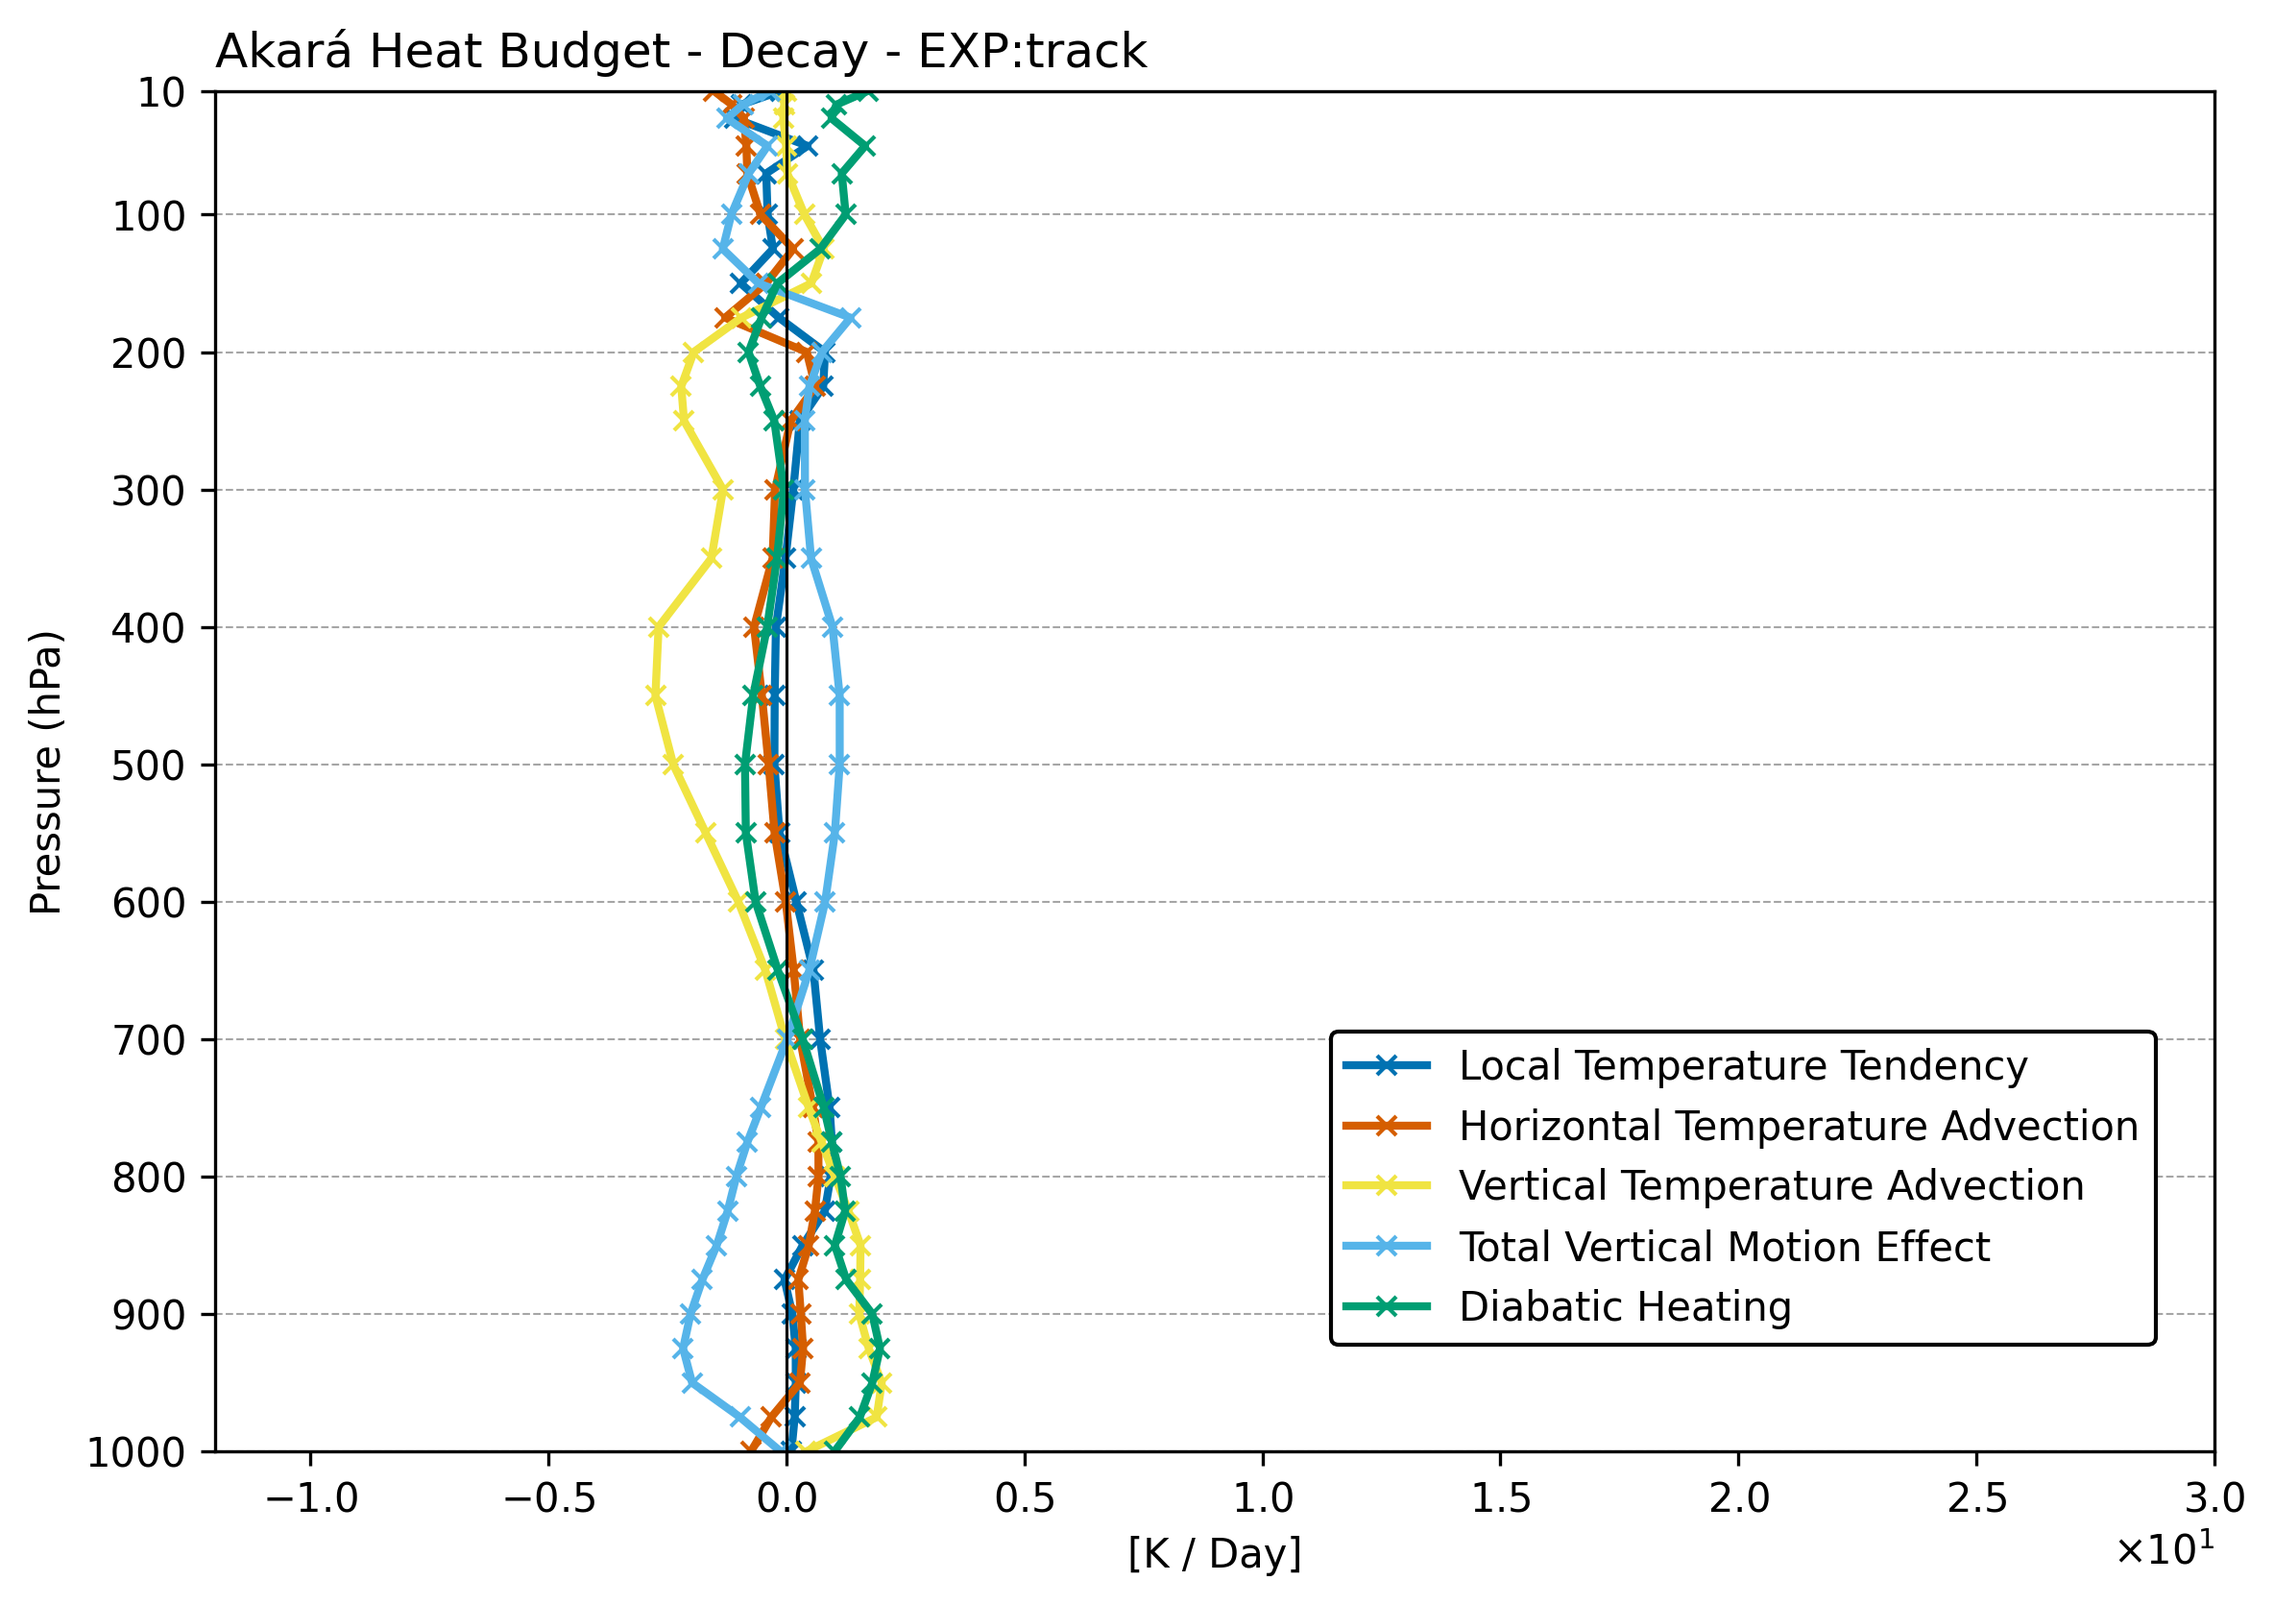
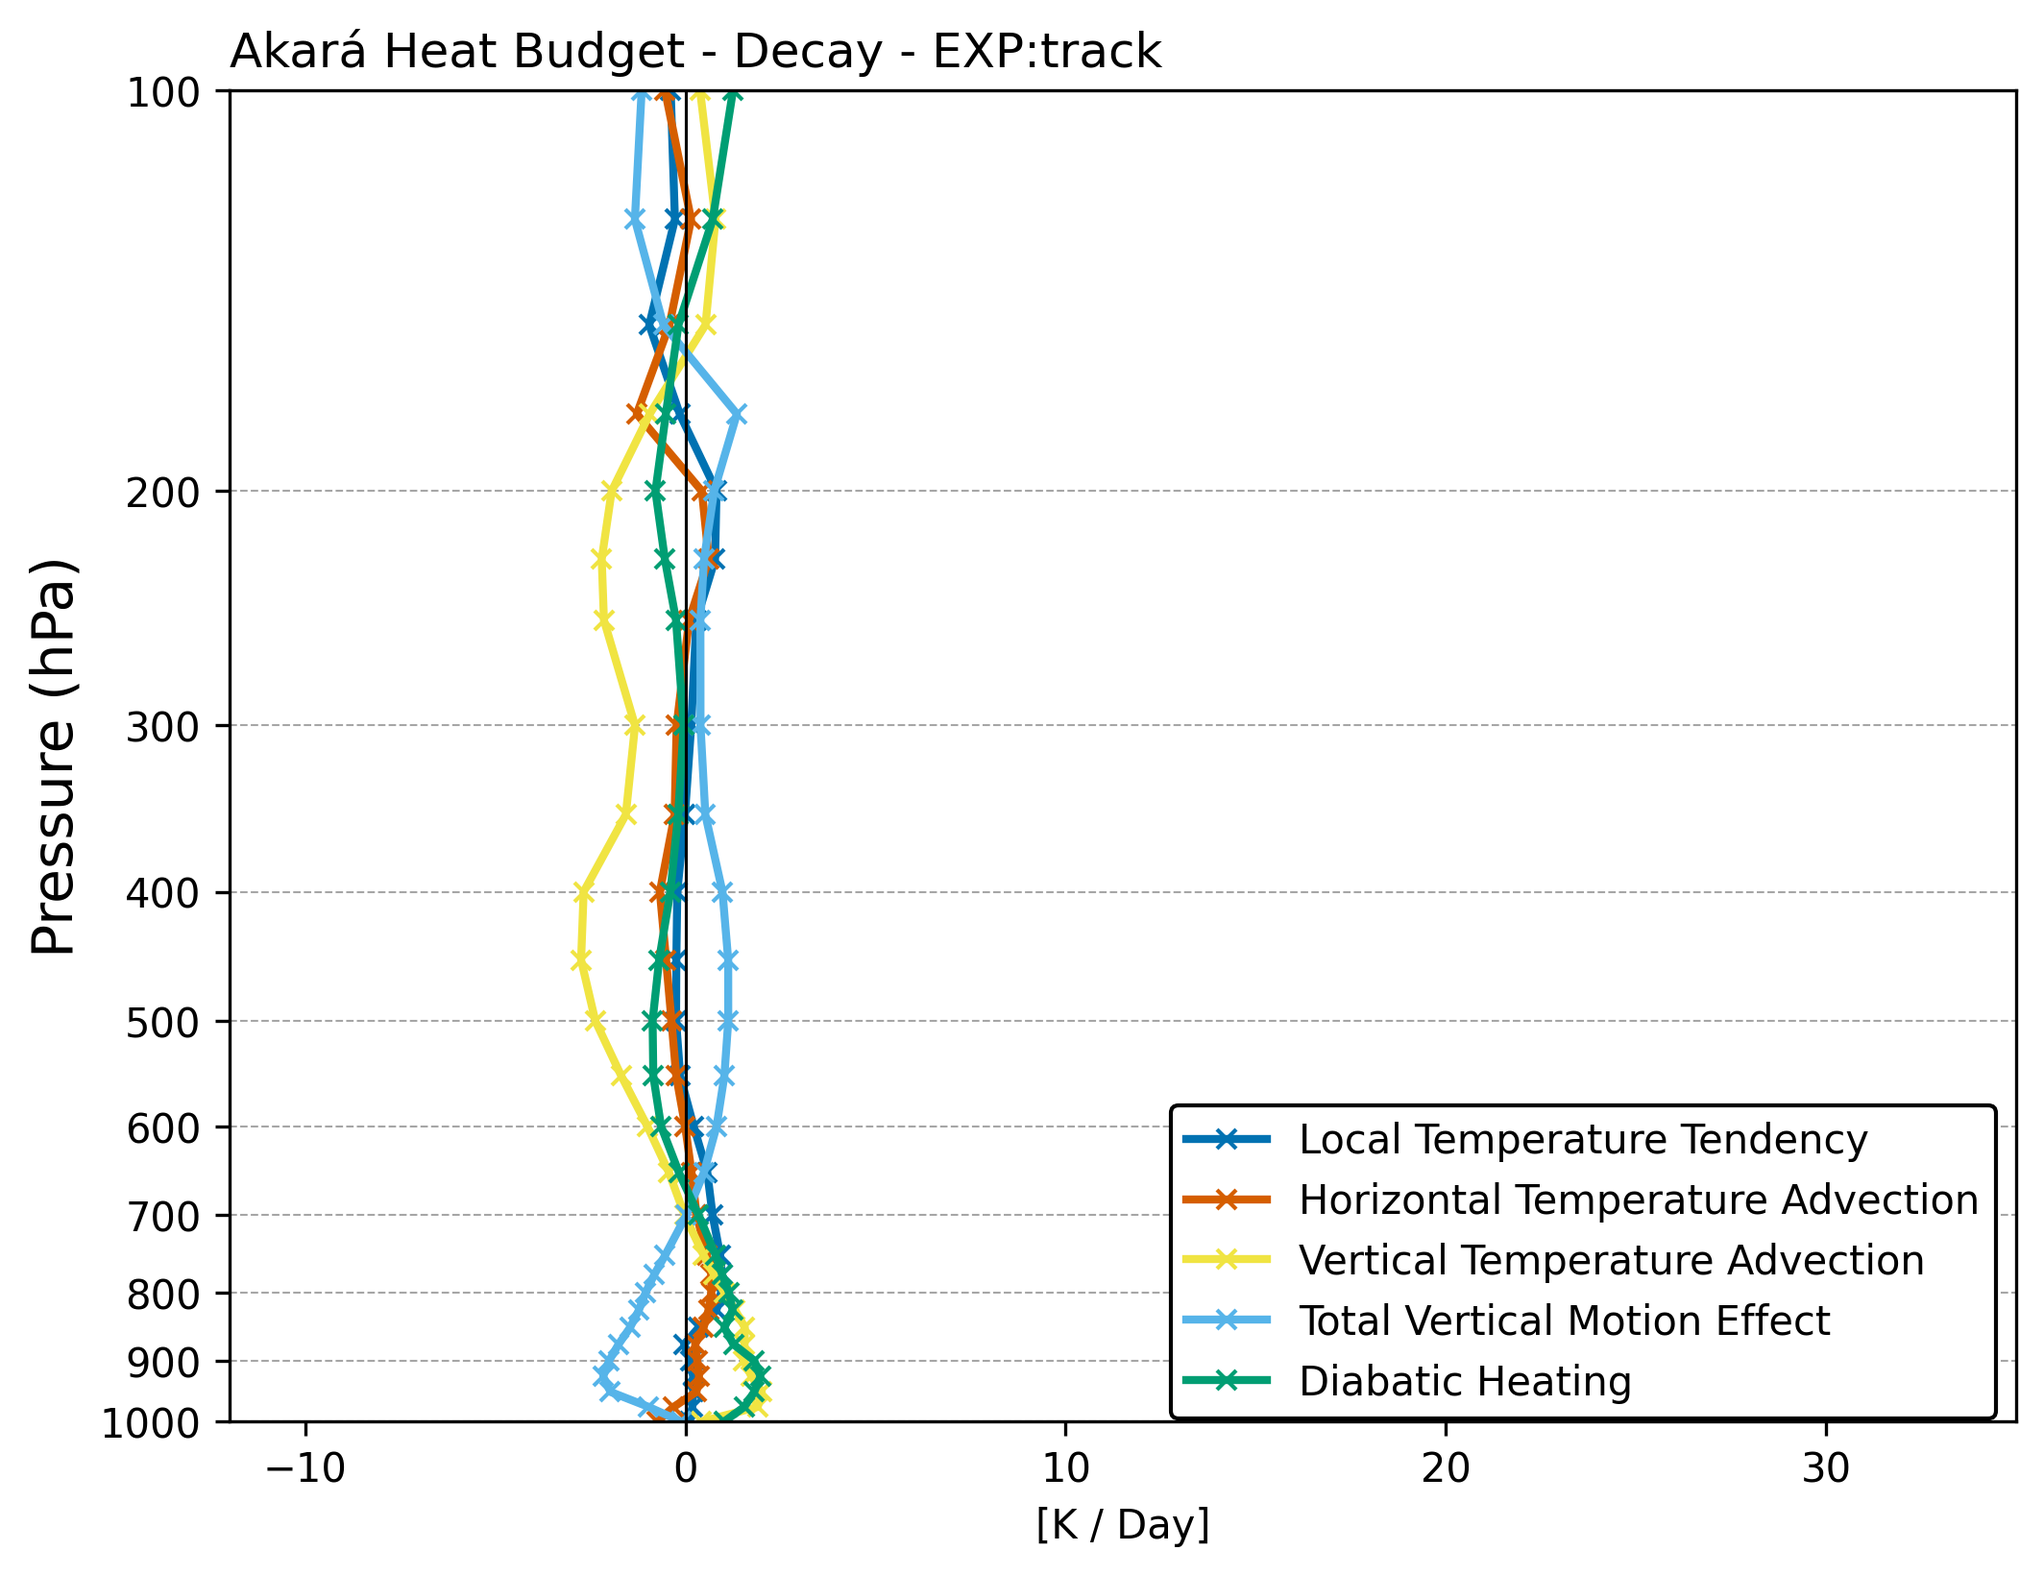
atualização akará balanços T

Changed region(s): [[0.0, 0.0, 0.9925, 0.9951], [0.9305, 0.964, 0.9615, 0.9951]]

diff --git a/Akara/AtmosBud/akara1_track/Scripts/T_balanc.py b/Akara/AtmosBud/akara1_track/Scripts/T_balanc.py
@@ -3,8 +3,8 @@ import matplotlib.ticker as ticker
 import pandas as pd
 import numpy as np
 
-DIRDADO = '/home/victor/USP/sinotica3/ATMOS-BUD_Results/akara1_track/'
-DIRFIGS = '/home/victor/USP/sinotica3/ATMOS-BUD_Results/akara1_track/Figures/T_balanc_track/'
+DIRDADO = '/home/victor/USP/sinotica3/ATMOS-BUD_Results/Akara/AtmosBud/akara1_track/'
+DIRFIGS = '/home/victor/USP/sinotica3/ATMOS-BUD_Results/Akara/AtmosBud/akara1_track/Figures/T_balanc_track/'
 
 # Lista de arquivos de dados
 dTdt = DIRDADO + 'dTdt.csv'
@@ -42,8 +42,7 @@ for idx, (date_interval, nome) in enumerate(zip(date_intervals, nomes)):
     for file_path in lista_arquivos:
         # Abrir dados em um DataFrame
         df = pd.read_csv(file_path, index_col=[0])
-        df.to_numpy()
-        df.index = df.index / 100
+        df.index = df.index / 100  # Ajuste da escala de pressão (hPa)
         df.columns = pd.to_datetime(df.columns)
         df.columns = df.columns.strftime('%Y-%m-%dT%H')
 
@@ -60,34 +59,26 @@ for idx, (date_interval, nome) in enumerate(zip(date_intervals, nomes)):
                 label=labels[i], color=colors[i], linewidth=2, linestyle='solid', marker='x', markerfacecolor='white', markersize=5)
 
     ax.axvline(0, c='black', linewidth=0.75)  # Adicionar linha vertical em x=0
-    ax.invert_yaxis()
-    ax.set_ylim(1000, 10)  # Definir limites do eixo y
-    ax.grid(axis='y', linestyle='--', color='gray', alpha=0.7, linewidth=0.5)  # Adicionar linhas de grade horizontais
-    ax.set_xlim(-12, 30)  # Definir limites do eixo x
-    ax.set_title(f'Akará Heat Budget - {nome} - EXP:track', fontsize=12, loc='left')  # Definir título
-    ax.set_xlabel('[K / Day]', fontsize=10)  # Definir rótulo do eixo x
-    ax.set_ylabel('Pressure (hPa)', fontsize=10)  # Definir rótulo do eixo y
-    ax.set_facecolor('white')  # Cor de fundo do eixo
+    ax.invert_yaxis()  # Inverter o eixo y
 
-    # Definir notação científica para o eixo x
-    ax.xaxis.set_major_formatter(ticker.ScalarFormatter(useMathText=True))
-    ax.ticklabel_format(style='sci', axis='x', scilimits=(0, 0))
+    # Definir eixo y logarítmico e os ticks
+    ax.set_yscale('log')
+    ax.set_yticks([1000, 900, 800, 700, 600, 500, 400, 300, 200, 100])
+    ax.get_yaxis().set_major_formatter(ticker.ScalarFormatter())  # Remover notação científica no log
+    ax.set_ylim(1000, 100)
 
-    # Definir ticks personalizados para o eixo y
-    custom_y_ticks = [1000, 900, 800, 700, 600, 500, 400, 300, 200, 100, 10]
-    ax.set_yticks(custom_y_ticks)
+    # Configurações do grid e título
+    ax.grid(axis='y', linestyle='--', color='gray', alpha=0.7, linewidth=0.5)
+    ax.set_xlim(-12, 35)  # Definir limites do eixo x
+    ax.set_title(f'Akará Heat Budget - {nome} - EXP:track', fontsize=12, loc='left')
+    ax.set_xlabel('[K / Day]', fontsize=10)
+    ax.set_ylabel('Pressure (hPa)', fontsize=14)
 
-    # Remover bordas dos subplots
-    ax.spines['top'].set_visible(True)
-    ax.spines['right'].set_visible(True)
+    # Legenda
+    fig.legend(labels, loc='lower right', bbox_to_anchor=(0.9, 0.1), fontsize=10, frameon=True, framealpha=1, edgecolor='black')
 
-    fig.legend(labels, loc='lower right', bbox_to_anchor=(0.95, 0.2), fontsize=10, frameon=True, framealpha=1, edgecolor='black')
-    fig.patch.set_facecolor('white')
-    plt.tight_layout()
-    plt.subplots_adjust(bottom=0.15)
-
-    # Salvar a figura com o nome correspondente à fase
+    # Salvar a figura
     plt.savefig(DIRFIGS + f'Heat_Budget_{nome}.png', bbox_inches='tight', dpi=300)
-    
-    # Fechar a figura
     plt.close()
+
+print("Gráficos gerados com sucesso!")

diff --git a/Akara/AtmosBud/akara1_track/Scripts/T_perfil.py b/Akara/AtmosBud/akara1_track/Scripts/T_perfil.py
@@ -4,9 +4,8 @@ import pandas as pd
 import numpy as np
 import os
 
-DIRDADO = '/home/victor/USP/sinotica3/ATMOS-BUD_Results/akara1_track/'
-DIRFIGS = '/home/victor/USP/sinotica3/ATMOS-BUD_Results/akara1_track/Figures/T_balanc_track/'
-
+DIRDADO = '/home/victor/USP/sinotica3/ATMOS-BUD_Results/Akara/AtmosBud/akara1_track/'
+DIRFIGS = '/home/victor/USP/sinotica3/ATMOS-BUD_Results/Akara/AtmosBud/akara1_track/Figures/T_balanc_track/'
 # Lista de arquivos de dados
 dTdt = DIRDADO + 'dTdt.csv'
 AdvHTemp = DIRDADO + 'AdvHTemp.csv'
@@ -17,8 +16,8 @@ ResT = DIRDADO + 'ResT.csv'
 #lista_arquivos = [dTdt]
 #lista_arquivos = [AdvHTemp]
 #lista_arquivos = [AdvVTemp]
-#lista_arquivos = [SigmaOmega]
-lista_arquivos = [ResT]
+lista_arquivos = [SigmaOmega]
+#lista_arquivos = [ResT]
 
 labels = ['Local Temperature Tendency',
           'Horizontal Temperature Advection',
@@ -64,25 +63,27 @@ for i in lista_arquivos:
         ax.plot(selected_data_mean * dia, df.index, label=curves[idx], 
                 color=colors[idx], marker='x', markerfacecolor='white', markersize=5)
 
-    # Customizações do gráfico
+    # Configurações do eixo Y - Escala logarítmica
+    ax.set_yscale('log')
+    
+    ax.set_ylim(1000, 100)  # Limites do eixo Y
+    ax.set_yticks([1000, 900, 800, 700, 600, 500, 400, 300, 200, 100])
+    ax.set_yticklabels([1000, 900, 800, 700, 600, 500, 400, 300, 200, 100])
+
+    # Outras customizações do gráfico
     ax.axvline(0, c='k', linewidth=0.75)  # Linha vertical em x=0
-    ax.invert_yaxis()  # Inverter o eixo Y (pressão)
-    ax.set_ylim(1000, 10)  # Limites do eixo Y
+    #ax.invert_yaxis()  # Inverter o eixo Y (pressão)
     ax.grid(axis='y', linestyle='--', color='gray', alpha=0.7, linewidth=0.5)  # Linhas de grade horizontais
 
     # Definir título e rótulos dos eixos
-    ax.set_title(f'Akará - Diabatic Heating - EXP:track', fontsize=12, loc='left')
+    ax.set_title(f'Akará - Total Vertical Motion Effect - EXP:track', fontsize=12, loc='left')
     ax.set_xlabel('[K / day]', fontsize=11)
     ax.set_ylabel('Pressure (hPa)', fontsize=12)
-    ax.set_xlim([-4, 15])
+    ax.set_xlim([-15, 5])
 
     # Formatação científica para o eixo X
     ax.xaxis.set_major_formatter(ticker.ScalarFormatter(useMathText=True))
     ax.ticklabel_format(style='sci', axis='x', scilimits=(0, 0))
-
-    # Definir ticks personalizados para o eixo Y
-    custom_y_ticks = [1000, 900, 800, 700, 600, 500, 400, 300, 200, 100, 10]
-    ax.set_yticks(custom_y_ticks)
 
     # Definir fundo do gráfico como branco
     ax.set_facecolor('#ffffff')

diff --git a/Akara/AtmosBud/akara1_track/Scripts/new_t_hov.py b/Akara/AtmosBud/akara1_track/Scripts/new_t_hov.py
@@ -41,7 +41,7 @@ for nome_arquivo, caminho in arquivos.items():
     # Converter nomes das colunas para objetos datetime com UTC
     df.columns = pd.to_datetime(df.columns, utc=True)
     df.columns = df.columns.tz_convert(None)  # Remover UTC
-    df = df.iloc[:, 17:-23]  # 17 porque o índice começa em 0
+
     # Ajuste do índice (presumivelmente em hPa)
     df.index = df.index / 100
 
@@ -60,14 +60,14 @@ for nome_arquivo, caminho in arquivos.items():
 
     # Configurar eixo y como logarítmico
     ax.invert_yaxis()
-    ax.set_ylim(500, 100)
+    ax.set_ylim(1000, 100)
     ax.set_yscale('log')
-    ax.set_yticks([500, 400, 300, 200, 100])
-    ax.set_yticklabels([500, 400, 300, 200, 100])
+    ax.set_yticks([1000, 900, 800, 700, 600, 500, 400, 300, 200, 100])
+    ax.set_yticklabels([1000, 900, 800, 700, 600, 500, 400, 300, 200, 100])
     ax.set_ylabel("Pressure (hPa)", fontsize=14)
 
     # Linhas verticais em datas específicas
-    for time in ['2024-02-17T00', '2024-02-18T00', '2024-02-19T00', '2024-02-20T00']:
+    for time in ['2024-02-14T21', '2024-02-16T09', '2024-02-19T15', '2024-02-20T06']:
         ax.axvline(pd.to_datetime(time), color='k', linestyle='--')
 
     # Formatação do eixo x
@@ -79,9 +79,7 @@ for nome_arquivo, caminho in arquivos.items():
     ax.set_title(f'Akará - {label} - EXP:track', fontsize=12, loc='left')
 
     # Salvar o gráfico
-    plt.savefig(DIRFIGS + f"{nome_arquivo}_track_hov_custom_500_100.png", bbox_inches='tight', dpi=300)
+    plt.savefig(DIRFIGS + f"{nome_arquivo}_track_hov_custom.png", bbox_inches='tight', dpi=300)
     plt.close()
 
 print("\nTodos os gráficos foram gerados com sucesso!")
-
-
